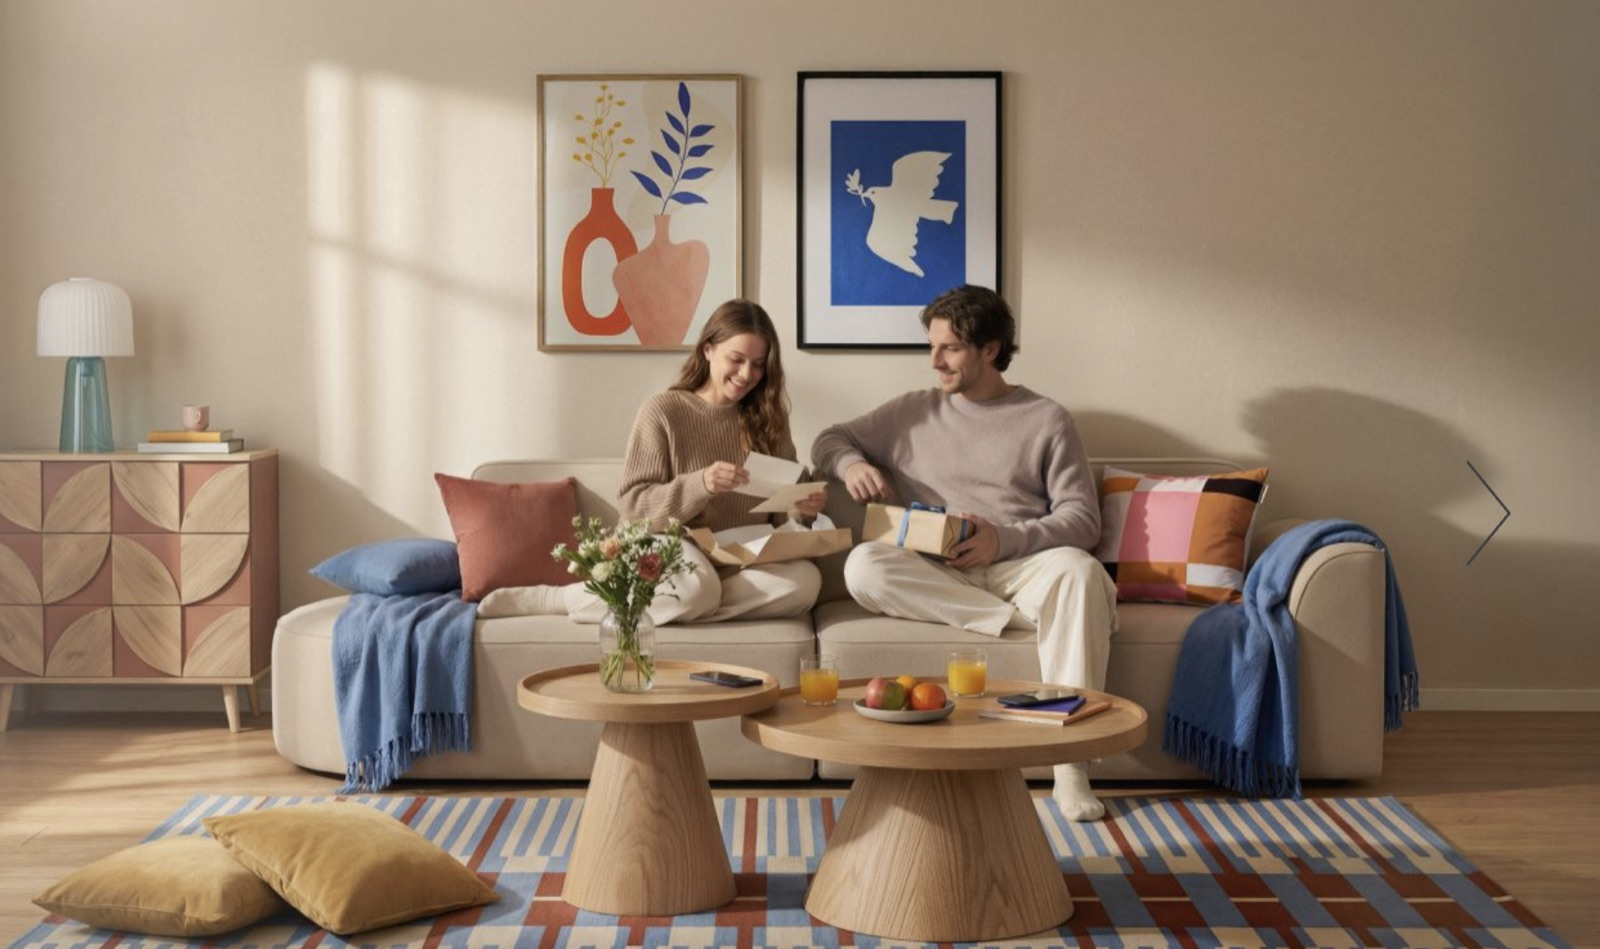
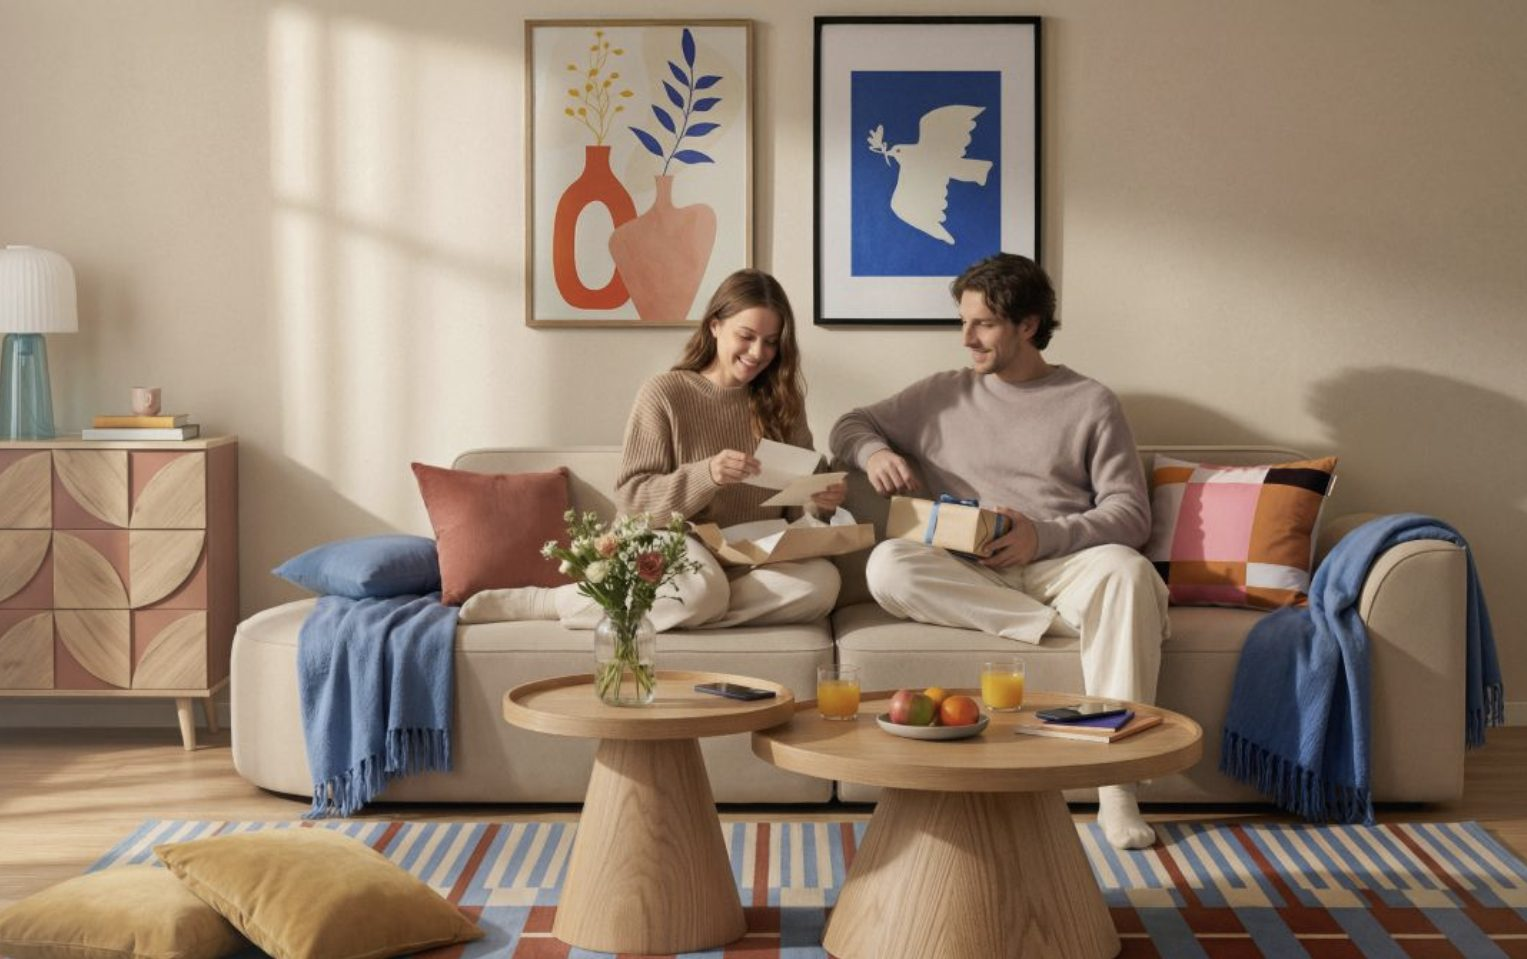
divan.ru: русское название в начале, цвета в шапке, переписки, решения в бренд-части, одна 3D-комната

diff --git a/audit.css b/audit.css
@@ -2,7 +2,7 @@
    АУДИТ КАК ДИЗАЙН-КЕЙС (audit.js, поле audit у проекта)
    Цвета — фирменные пастельные divan.ru, текст на них всегда темный.
    ================================================================ */
-.au{
+.au{overflow-x:clip;   /* детали, которые выезжают сбоку, не дают странице прокручиваться вбок */
   --dv-blue:  #BDE1FB;   /* фирменный голубой divan.ru */
   --dv-blue2: #3D9BE9;   /* яркий голубой для акцентов */
   --dv-green: #D4EBC6;   /* трек «нюансы» */
@@ -117,7 +117,10 @@
 }
 
 /* ---------- живая шапка с поиском ---------- */
-.au-search{background:var(--dv-green);color:var(--dv-ink);border-radius:clamp(20px,3vw,40px);padding:clamp(20px,3vw,40px);overflow:hidden}
+.au-search{--sb:var(--dv-green);--sa:var(--dv-green2);background:var(--sb);color:var(--dv-ink);border-radius:clamp(20px,3vw,40px);padding:clamp(20px,3vw,40px);overflow:hidden;transition:background .7s var(--ease)}
+/* у каждого слова свой фон из палитры бренда */
+.au-search[data-color="blue"]{--sb:var(--dv-blue);--sa:var(--dv-blue2)}
+.au-search[data-color="rose"]{--sb:var(--dv-rose);--sa:var(--dv-rose2)}
 .au-s-head{display:flex;align-items:center;gap:clamp(16px,2.4vw,40px);background:#fff;border-radius:999px;padding:14px 16px 14px 28px}
 .au-s-logo{font-weight:600;font-size:clamp(22px,2vw,28px);letter-spacing:-.01em}
 .au-s-menu{display:flex;gap:clamp(12px,1.6vw,24px);font-size:17px}
@@ -128,7 +131,7 @@
 @keyframes auCaret{50%{opacity:0}}
 .au-s-lead{display:flex;flex-wrap:wrap;align-items:baseline;gap:.15em .5em;margin:clamp(32px,4vw,56px) 0 clamp(20px,3vw,36px) 8px;font-weight:500;font-size:clamp(40px,6.4vw,104px);line-height:1}
 .au-s-tab{font-weight:500;position:relative;opacity:.35;transition:opacity .4s}
-.au-s-tab::after{content:"";position:absolute;left:0;right:0;bottom:-.08em;height:.07em;border-radius:9px;background:var(--dv-green2);transform:scaleX(0);transform-origin:left;transition:transform .6s var(--ease)}
+.au-s-tab::after{content:"";position:absolute;left:0;right:0;bottom:-.08em;height:.07em;border-radius:9px;background:var(--sa);transform:scaleX(0);transform-origin:left;transition:transform .6s var(--ease)}
 .au-s-tab.on{opacity:1}
 .au-s-tab.on::after{transform:none}
 .au-s-tab:hover{opacity:.8}
@@ -246,3 +249,77 @@
   .au .au-viz,.au [style*="--i"]{opacity:1 !important;transform:none !important}
 }
 .au-legend{display:inline-block;width:14px;height:14px;border-radius:4px;background:var(--dv-rose);margin-right:8px;vertical-align:-1px}
+
+/* ---------- русское название ---------- */
+.au-rename{display:grid;justify-items:center;gap:clamp(28px,4vw,56px);padding:clamp(48px,7vw,104px) clamp(20px,4vw,64px);border-radius:clamp(20px,3vw,40px);background:var(--dv-blue);color:var(--dv-ink)}
+.au-rn-logos{display:flex;flex-wrap:wrap;align-items:center;justify-content:center;gap:clamp(16px,3vw,48px)}
+.au-rn-logos img{height:clamp(44px,6vw,96px);width:auto;border-radius:0}
+.au-rn-from{opacity:.4;transform:translateX(30%);transition:transform 1s var(--ease) .3s,opacity .8s .3s}
+.au-rn-arrow{opacity:0;transition:opacity .5s .9s}
+.au-rn-to{opacity:0;transform:translateX(-20%) scale(.9);transition:transform 1.1s var(--ease) 1s,opacity .8s 1s}
+.au-ch.in .au-rn-from{transform:none}
+.au-ch.in .au-rn-arrow{opacity:1}
+.au-ch.in .au-rn-to{opacity:1;transform:none}
+.au-rn-menu{display:flex;flex-wrap:wrap;justify-content:center;gap:.2em .8em;font-size:clamp(28px,3.6vw,56px);line-height:1.1}
+.au-rn-menu span{opacity:0;transform:translateY(16px);transition:opacity .6s calc(1.4s + var(--i) * .1s),transform .8s var(--ease) calc(1.4s + var(--i) * .1s)}
+.au-ch.in .au-rn-menu span{opacity:1;transform:none}
+.au-rename .au-lw-tags span{background:#fff}
+.au-rename .au-lw-tags span{transition-delay:calc(1.8s + var(--i) * .12s)}
+
+/* ---------- с этим товаром покупают ---------- */
+.au-bundle{display:flex;align-items:center;gap:clamp(12px,2vw,28px);padding:clamp(24px,3vw,48px);border-radius:clamp(20px,3vw,40px);background:var(--dv-rose);color:var(--dv-ink)}
+.au-bd-card{flex:none;width:clamp(120px,14vw,190px);border-radius:16px;overflow:hidden;background:#fff}
+.au-bd-card img{width:100%;border-radius:0}
+.au-bundle .au-plus-sign{flex:none;margin:0;transform:scale(0);background:#fff}
+.au-ch.in .au-bundle .au-plus-sign{transform:none}
+.au-bd-set{flex:1;min-width:0;max-width:680px;display:flex;flex-direction:column;gap:12px}
+.au-bd-set b{font-weight:500;font-size:clamp(22px,2.2vw,32px);line-height:1.1}
+.au-bd-set div{border-radius:16px;overflow:hidden;background:#fff;padding:8px}
+.au-bd-set img{width:100%;border-radius:0}
+@media (max-width:600px){.au-bundle{flex-direction:column;align-items:stretch}.au-bd-card{align-self:center}.au-bundle .au-plus-sign{align-self:center}}
+
+/* ---------- переписки ---------- */
+.au-chats{display:flex;align-items:flex-start;gap:clamp(10px,1.4vw,20px);margin-bottom:clamp(32px,4vw,56px)}
+.au-chat{--ar:1;flex:var(--ar) 1 0;min-width:0;padding:0;border-radius:18px;overflow:hidden;opacity:0;transform:translateY(32px) rotate(calc((var(--i) - 1) * 1.2deg));transition:opacity .7s var(--ease) calc(.2s + var(--i) * .2s),transform .9s var(--ease) calc(.2s + var(--i) * .2s)}
+.au-chat img{width:100%;height:auto;border-radius:0}
+.au-ch.in .au-chat{opacity:1;transform:rotate(calc((var(--i) - 1) * 1.2deg))}
+@media (max-width:760px){.au-chats{flex-direction:column;align-items:stretch}.au-chat{flex:none}}
+
+/* ---------- проблема → решение ---------- */
+.au-fix{display:grid;grid-template-columns:repeat(2,minmax(0,1fr));gap:clamp(16px,2.4vw,40px);margin-bottom:clamp(24px,3vw,40px)}
+.au-fix-col{display:flex;flex-direction:column;gap:14px;opacity:0;transform:translateY(24px);transition:opacity .7s var(--ease),transform .9s var(--ease)}
+.au-fix-col.next{transition-delay:.35s}
+.au-ch.in .au-fix-col{opacity:1;transform:none}
+.au-fix-tag{align-self:flex-start;padding:5px 16px 8px;border-radius:999px;font-size:17px;font-weight:500;background:var(--soft)}
+.au-fix-col.next .au-fix-tag{background:var(--c1);color:var(--dv-ink)}
+.au-fix-col p{font-family:var(--font-read);font-size:clamp(19px,1.6vw,23px);line-height:1.38;max-width:34ch}
+.au-fix-col .au-row{margin-top:6px}
+.au-fix-col.now .au-cell{filter:saturate(.7)}
+.au-fix.slide{margin-bottom:clamp(20px,2.4vw,32px)}
+@media (max-width:760px){.au-fix{grid-template-columns:1fr}}
+
+/* ---------- набросок единого шаблона сообществ ---------- */
+.au-cities{display:grid;grid-template-columns:1fr;gap:10px;margin-top:6px}
+.au-city{display:grid;grid-template-columns:auto 1fr;grid-template-rows:auto auto;gap:8px 14px;padding:12px;border-radius:16px;background:var(--soft);opacity:0;transform:translateX(24px);transition:opacity .6s calc(.6s + var(--i) * .15s),transform .8s var(--ease) calc(.6s + var(--i) * .15s)}
+.au-ch.in .au-city{opacity:1;transform:none}
+.au-city-cover{grid-column:1 / -1;display:flex;align-items:baseline;justify-content:space-between;gap:12px;padding:18px 20px 22px;border-radius:12px;background:var(--dv-blue);color:var(--dv-ink)}
+.au-city-logo{font-weight:600;font-size:clamp(22px,2vw,30px);letter-spacing:-.01em}
+.au-city-line{font-size:16px;opacity:.75;text-align:right}
+.au-city-row{display:flex;align-items:center;gap:10px;font-size:17px}
+.au-city-row b{font-weight:500}
+.au-city-ava{position:relative;flex:none;width:40px;height:40px;border-radius:50%;background:var(--dv-blue)}
+.au-city-ava .o{position:absolute;left:22%;top:44%;width:30%;height:30%;border-radius:50%;background:var(--dv-ink)}
+.au-city-ava .l{position:absolute;left:57%;top:24%;width:18%;height:50%;border-radius:3px;background:var(--dv-ink)}
+.au-city-tabs{display:flex;gap:6px;justify-content:flex-end;align-items:center}
+.au-city-tabs span{padding:4px 12px 6px;border-radius:999px;background:var(--dv-blue);color:var(--dv-ink);font-size:16px}
+@media (max-width:520px){.au-city{grid-template-columns:1fr}.au-city-tabs{justify-content:flex-start}}
+img.au-lw-logo{height:clamp(48px,6vw,100px);width:auto;border-radius:0}
+img.au-city-logo{height:clamp(22px,2vw,30px);width:auto;border-radius:0}
+.au-row.stack{flex-direction:column}
+.au-row.stack .au-cell{flex:none;width:100%}
+/* обложка сообщества с общей фотографией: снизу голубая плашка со знаком */
+.au-city-cover.ph{position:relative;aspect-ratio:3.2/1;align-items:flex-end;padding:0;background:var(--ph) center 40% / cover;overflow:hidden}
+.au-city-cover.ph::after{content:"";position:absolute;inset:auto 0 0 0;height:42%;background:var(--dv-blue)}
+.au-city-cover.ph>*{position:relative;z-index:1;margin:0 0 3% 0}
+.au-city-cover.ph .au-city-logo{margin-left:4%}
+.au-city-cover.ph .au-city-line{margin-right:4%}

diff --git a/audit.js b/audit.js
@@ -63,14 +63,14 @@ function journey(j){
 
 // живая шапка: в поиске печатается запрос, слова «для бизнеса / дома / вау» меняют подборку
 function search(s){
-  return `<div class="au-search">
+  return `<div class="au-search" data-color="${s.tabs[0].color || 'green'}">
     <div class="au-s-head">
       <span class="au-s-logo">divan.ru</span>
       <span class="au-s-menu">${s.menu.map(m => `<span>${H.T(m)}</span>`).join('')}</span>
       <span class="au-s-field"><span class="au-s-q"></span><i class="au-s-caret"></i>
         <svg width="20" height="20" viewBox="0 0 24 24" fill="none" stroke="currentColor" stroke-width="2.2" stroke-linecap="round"><circle cx="11" cy="11" r="7"/><path d="M20 20l-4-4"/></svg></span>
     </div>
-    <div class="au-s-lead"><span>${H.T(s.lead)}</span>${s.tabs.map((t, i) => `<button class="au-s-tab${i ? '' : ' on'}" data-k="${i}" data-q="${esc(t.query)}">${H.T(t.word)}</button>`).join('')}</div>
+    <div class="au-s-lead"><span>${H.T(s.lead)}</span>${s.tabs.map((t, i) => `<button class="au-s-tab${i ? '' : ' on'}" data-k="${i}" data-q="${esc(t.query)}" data-color="${t.color || 'green'}">${H.T(t.word)}</button>`).join('')}</div>
     <div class="au-s-shots">${s.tabs.map((t, i) => `<img class="${i ? '' : 'on'}" src="${t.img}" alt="" loading="lazy">`).join('')}</div>
   </div>
   ${s.note ? `<p class="au-cap">${H.T(s.note)}</p>` : ''}`;
@@ -105,7 +105,7 @@ function lowercase(l){
   const word = w => `<span class="au-lw"><span class="up">${w}</span><span class="lo">${w.toLowerCase()}</span></span>`;
   return `<div class="au-lower">
     <div class="au-lw-menu">${l.words.map(word).join('')}</div>
-    <div class="au-lw-logo">divan.ru</div>
+    ${l.logo ? `<img class="au-lw-logo" src="${l.logo}" alt="divan.ru">` : '<div class="au-lw-logo">divan.ru</div>'}
     <div class="au-lw-tags">${l.tags.map((t, i) => `<span style="--i:${i}">${H.T(t)}</span>`).join('')}</div>
   </div>
   ${l.note ? `<p class="au-cap">${H.T(l.note)}</p>` : ''}`;
@@ -142,17 +142,73 @@ function worldHint(w){
   return `<div class="au-whint">${keys}<p>${H.T(text || '')}</p></div>`;
 }
 
+// русское название: латинский знак уезжает, приходит русский; ниже меню и теги
+function rename(r){
+  return `<div class="au-rename">
+    <div class="au-rn-logos">
+      <img class="au-rn-from" src="${r.from}" alt="divan.ru">
+      <svg class="au-rn-arrow" width="48" height="48" viewBox="0 0 24 24" fill="none" stroke="currentColor" stroke-width="2.2" stroke-linecap="round" stroke-linejoin="round"><path d="M4 12h15M13 6l6 6-6 6"/></svg>
+      <img class="au-rn-to" src="${r.to}" alt="диван.ру">
+    </div>
+    <div class="au-rn-menu">${r.menu.map((m, i) => `<span style="--i:${i}">${H.T(m)}</span>`).join('')}</div>
+    <div class="au-lw-tags">${r.tags.map((t, i) => `<span style="--i:${i}">${H.T(t)}</span>`).join('')}</div>
+  </div>`;
+}
+
+// товар и то, что к нему подходит: маленькая карточка, плюс и лента сочетаний — картинки не крупнее, чем они есть
+function bundle(b){
+  return `<div class="au-bundle">
+    <div class="au-bd-card au-zoomable"><img src="${b.card}" alt="" loading="lazy"></div>
+    <span class="au-plus-sign" aria-hidden="true">+</span>
+    <div class="au-bd-set">
+      <b>${H.T(b.title)}</b>
+      <div class="au-zoomable"><img src="${b.together}" alt="" loading="lazy"></div>
+    </div>
+  </div>
+  ${b.note ? `<p class="au-cap">${H.T(b.note)}</p>` : ''}`;
+}
+
+// переписки со знакомыми: три скриншота, как сообщения в ленте
+function chats(list){
+  return `<div class="au-chats">${list.map((src, i) => `<button class="au-chat au-zoomable" style="--i:${i}" aria-label="Увеличить переписку"><img src="${src}" alt="Переписка о покупке на divan.ru" loading="lazy"></button>`).join('')}</div>`;
+}
+
+// набросок единого шаблона сообществ: одна обложка, меняется только город
+function cities(c){
+  return `<div class="au-cities">${c.cities.map((name, i) => `<div class="au-city" style="--i:${i}">
+    <div class="au-city-cover${c.photo ? ' ph' : ''}"${c.photo ? ` style="--ph:url('${c.photo}')"` : ''}>${c.logo ? `<img class="au-city-logo" src="${c.logo}" alt="divan.ru">` : '<span class="au-city-logo">divan.ru</span>'}<span class="au-city-line">${H.T(c.line)}</span></div>
+    <div class="au-city-row"><span class="au-city-ava" aria-hidden="true"><i class="o"></i><i class="l"></i></span><b>divan.ru ${H.T(name)}</b></div>
+    <div class="au-city-tabs"><span>каталог</span><span>акции</span><span>шоурумы</span></div>
+  </div>`).join('')}</div>`;
+}
+
+// проблема → решение: «сейчас» и «предлагаю», под каждым свои картинки
+const fixMedia = m => !m ? '' : m.cities ? cities(m) : `<div class="au-row${m.length > 2 ? ' stack' : ''}">${m.map(src => `<button class="au-cell au-zoomable" aria-label="Увеличить"><img src="${src}" alt="" loading="lazy"></button>`).join('')}</div>`;
+function fix(f){
+  const L = f.labels || ['сейчас', 'предлагаю'];
+  const slide = f.slider && f.before && f.after;
+  return `<div class="au-fix${slide ? ' slide' : ''}">
+    <div class="au-fix-col now"><span class="au-fix-tag">${H.T(L[0])}</span><p>${H.T(f.now)}</p>${slide ? '' : fixMedia(f.before)}</div>
+    <div class="au-fix-col next"><span class="au-fix-tag">${H.T(L[1])}</span><p>${H.T(f.next)}</p>${slide ? '' : fixMedia(f.after)}</div>
+  </div>
+  ${slide ? `<div class="au-cmps n1">${compare([{ before: f.before[0], after: f.after[0], labels: L }])}</div>` : ''}`;
+}
+
 /* ---------- глава ---------- */
 function chapter(ch, p){
   let viz = '';
+  if (ch.rename)    viz += rename(ch.rename);
   if (ch.audience)  viz += audience(ch.audience);
   if (ch.formula)   viz += formula(ch.formula);
   if (ch.traffic)   viz += traffic(ch.traffic);
   if (ch.journey)   viz += journey(ch.journey);
   if (ch.search)    viz += search(ch.search);
   if (ch.compare)   viz += `<div class="au-cmps n${ch.compare.length}">${compare(ch.compare)}</div>`;
+  if (ch.bundle)    viz += bundle(ch.bundle);
   if (ch.plus)      viz += plus(ch);
+  if (ch.chats)     viz += chats(ch.chats);
   if (ch.friction)  viz += friction(ch.friction);
+  if (ch.fix)       viz += fix(ch.fix);
   if (ch.lowercase) viz += lowercase(ch.lowercase);
   if (ch.glass)     viz += glass(ch.glass);
   if (ch.world && p.world) viz += worldHint(p.world) + H.worldHTML({ ...p.world, hint: null });
@@ -195,6 +251,7 @@ function liveSearch(box){
     k = i;
     tabs.forEach((t, j) => t.classList.toggle('on', j === i));
     shots.forEach((s, j) => s.classList.toggle('on', j === i));
+    box.dataset.color = tabs[i].dataset.color;   // у каждого слова свой фон из палитры бренда
     type(tabs[i].dataset.q);
   };
   // пока никто не нажимал — слова меняются сами
@@ -266,7 +323,7 @@ export async function mountAudit(mount, p, helpers){
   mount.querySelectorAll('.au-whint').forEach(liveKeys);
   mount.querySelectorAll('.world').forEach(H.watchWorld);
   // ряды одной высоты: пропорции ячейки берутся из самой картинки
-  mount.querySelectorAll('.au-cell img').forEach(img => {
+  mount.querySelectorAll('.au-cell img, .au-chat img').forEach(img => {
     const set = () => img.naturalWidth && img.parentNode.style.setProperty('--ar', img.naturalWidth / img.naturalHeight);
     img.complete ? set() : img.addEventListener('load', set, { once: true });
   });

diff --git a/app.js b/app.js
@@ -1549,7 +1549,7 @@ function renderCase(k, keepScroll){
     if (g < gallery.length) body += galleryItem(gallery[g++]);
     if (p.brandkit && p.brandkit.after === key) body += brandkitHTML(p.brandkit);
     // world.after — ключ схемы ('solution') или номер абзаца story, считая с нуля
-    if (p.world && (p.world.after === key || p.world.after === i)) body += worldHTML(p.world);
+    if (p.world && p.world.after != null && (p.world.after === key || p.world.after === i)) body += worldHTML(p.world);
   });
   while (g < gallery.length) body += galleryItem(gallery[g++]);
   // кампании внутри кейса: меню, у каждой — текст в три колонки (название, задача, решение) и макеты рядами
